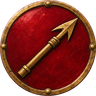
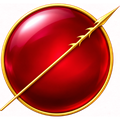
Значок охоты на плитке — как на первом макете: рубиновый кабошон с тонким гарпуном

diff --git a/CLAUDE.md b/CLAUDE.md
@@ -60,7 +60,7 @@
 
 ## Что дальше
 - 18.11 (`fixes`), **к боссу — одно окно, награда за рудник — ачивкой** (пользователь: «не понимаю последовательность экранов»: окно награды «X is fitted out!» и окно глубины «Last depth» оба вели в окно босса с медальоном): окна награды больше нет — после последней стройки рудник доигрывает перемену, у Old Adit идёт сцена `poloz_before`, затем сразу окно босса (`Home._boss_panel` через `_fight_boss`); плашка Next после постройки всего — тоже сразу в него (`_open_next`), ветка боя в окне глубины убрана. Награда (500 монет, кирка, бур) — ачивка «Rigged: <рудник>» на каждый рудник (8 строк вместо одной Fully Rigged за Old Adit на 900; событие `rigged:N`, ключ `mine` — у недостигнутого рудника строка скрыта, `Awards._state`). У рудников без босса окно «fitted out» осталось без награды (Go to … / Later). До/после — `art/boss_flow_ba.png`. На iPhone не проверено.
-- 18.11 (`fixes`), **лента охоты на карточке проглоченной находки — только вид, логики нет** (решено: 3 уровня → жеода (награда и точка сохранения: проигрыш после неё возвращает к ней) → 2 уровня → бой с плезиозавром; все бои подряд). `HuntRibbon` (`screens/hunt_ribbon.gd`): семь узлов на прямом пунктире, лента шире карточки — едет под пальцем и сама подводит текущий узел к середине, обрезанные концы гаснут. Медальон уровня показывает, про что уровень (щупальце, чернила, водоворот, песочные часы — уровень на время, штурвал), без номеров; состояния: тёмный / следующий (начищен + тёплый дышащий ореол кодом) / пройден (золото с галочкой); жеода целая / треснула и светится (ждёт открытия) / раскрыта, флажок SAVE POINT; босс тёмный / следующий (красный ореол); состояния «босс побеждён» нет — после победы карточка снова карточка минерала. В карточке (`Reveal.gulp_info`): подпись THE HUNT, лента, строка (`HuntRibbon.line_text`), кнопка по состоянию (`button_text`: Hunt it down / Hunt on / Open the geode — золотая / Hunt again / Face the plesiosaur). Состояние — `Save.d.hunt` {won, geode, lost} (никто пока не пишет) или ключ снимка `hunt=N[g][x]`: `-- save=gulptest area=2 screen=stones ui=open_n card=0 ui_after=2 hunt=3g`. Детали — GPT: `art/ui_redesign/swallowed/gen_parts.sh levels|nodes` (листы на пурпуре) → `py art/ui_redesign/swallowed/cut_parts.py p_levels.png p_nodes.png godot/assets/ui/hunt` (XY-нарезка, ×0,6 = 3 px на pt). Макеты и отклонённые концепты (призрак находки, розыск, глубиномер, в брюхе, надкушенная карточка, журнал; иллюминаторы, бирки глубины, зубы) — там же. Плитка инвентаря (`Museum._tile`): проглоченная находка — своя плитка, первая в сетке (не в стопке вида), рубиновая рамка и дышащий красный ореол, без цены и без точек прогресса (по просьбе), в углу значок охоты — рубиновый диск с гарпуном (`assets/ui/hunt/badge.png`; GPT `gen_badge.sh` → лист из 4, взят №1, остальные — `badge_2..4.png`). Кадр — `art/hunt_tile.png`. Кадры — `art/hunt_ribbon_states.png`. На iPhone не проверено.
+- 18.11 (`fixes`), **лента охоты на карточке проглоченной находки — только вид, логики нет** (решено: 3 уровня → жеода (награда и точка сохранения: проигрыш после неё возвращает к ней) → 2 уровня → бой с плезиозавром; все бои подряд). `HuntRibbon` (`screens/hunt_ribbon.gd`): семь узлов на прямом пунктире, лента шире карточки — едет под пальцем и сама подводит текущий узел к середине, обрезанные концы гаснут. Медальон уровня показывает, про что уровень (щупальце, чернила, водоворот, песочные часы — уровень на время, штурвал), без номеров; состояния: тёмный / следующий (начищен + тёплый дышащий ореол кодом) / пройден (золото с галочкой); жеода целая / треснула и светится (ждёт открытия) / раскрыта, флажок SAVE POINT; босс тёмный / следующий (красный ореол); состояния «босс побеждён» нет — после победы карточка снова карточка минерала. В карточке (`Reveal.gulp_info`): подпись THE HUNT, лента, строка (`HuntRibbon.line_text`), кнопка по состоянию (`button_text`: Hunt it down / Hunt on / Open the geode — золотая / Hunt again / Face the plesiosaur). Состояние — `Save.d.hunt` {won, geode, lost} (никто пока не пишет) или ключ снимка `hunt=N[g][x]`: `-- save=gulptest area=2 screen=stones ui=open_n card=0 ui_after=2 hunt=3g`. Детали — GPT: `art/ui_redesign/swallowed/gen_parts.sh levels|nodes` (листы на пурпуре) → `py art/ui_redesign/swallowed/cut_parts.py p_levels.png p_nodes.png godot/assets/ui/hunt` (XY-нарезка, ×0,6 = 3 px на pt). Макеты и отклонённые концепты (призрак находки, розыск, глубиномер, в брюхе, надкушенная карточка, журнал; иллюминаторы, бирки глубины, зубы) — там же. Плитка инвентаря (`Museum._tile`): проглоченная находка — своя плитка, первая в сетке (не в стопке вида), рубиновая рамка и дышащий красный ореол, без цены и без точек прогресса (по просьбе), в углу значок охоты — рубиновый диск с гарпуном (`assets/ui/hunt/badge.png`; GPT `gen_badge2.sh` — перерисован крупно со значка первого макета `mock_e.png`: глянцевый рубиновый кабошон в тонком золотом кольце, тонкий гарпун с зазубринами, выходит за кольцо; латунные диски с заклёпками из `gen_badge.sh` отклонены — «дурацкий»). Кадр — `art/hunt_tile.png`. Кадры — `art/hunt_ribbon_states.png`. На iPhone не проверено.
 - 18.11 (`fixes`), **окно глубины короче** (по просьбе): убраны кнопки All jobs и Close и строка «Iron and gold come from the levels you win…»; справа сверху тонкий крестик (`Reveal.thin_close` на держателе окна, как в профиле). Список All jobs (`Home._open_tasks`) удалён (по просьбе): он открывался только отсюда. До/после — `art/depth_window_ba.png`. Пальцем на iPhone не проверено.
 - 18.11 (`fixes`), **«не хватает» — везде красный «!»** (скрин: в окне глубины тусклая кнопка Build у задачи и «!» у бура значили одно и то же): кнопка Build (окно глубины, `Home._open_next`) показывается только когда задачу можно оплатить, иначе в строке «!», как у строк бура; в списке All jobs (`Home._open_tasks`) неоплатная задача — «!» вместо тусклой кнопки с ценой (цена есть в строке), глубина, до которой не дошли, — по-прежнему «100 m». До/после — `art/build_alert_ba.png`. Пальцем на iPhone не проверено.
 - 18.11 (`fixes`), **профиль, атлас и черепа зверей видят ту же находку** (скрины: в профиле вместо куприта с флюоресценцией — камень с медузами; череп зверя в атласе — человеческий и «продан», в инвентаре — простой кристалл): (1) `ProfileCard` строил картинку лучшей находки из записи инвентаря, а не из `Spec.of_stone` — без `seed` собирался другой камень; теперь через `Spec.of_stone`. (2) `Save.note_find` (лучший камень атласа) и `Awards.summary` копировали находку по списку полей — без генов черепа (`beast` и др.): волчий череп становился «Almandine Skull»; теперь копируется вся находка. В инвентарь череп уже идёт целиком (Keep, `Reveal.kept_entry`, утро 18.11). (3) Старые сохранения: `Save._mend_beasts` при запуске возвращает `beast`/`form` лучшему на странице `beast_*` атласа и камню инвентаря с тем же id (печать «save: mended N»). Тест `tests/keep_check.tscn -- save=<имя> beast` (волчий череп Old Adit → Keep → страница атласа, её лучший, «сохранён ли», запись инвентаря): было «Almandine Skull (beast -)», стало «Wolf Skull (beast wolf)». До/после профиля — `art/profile_best_ba.png`. На iPhone не проверено.
